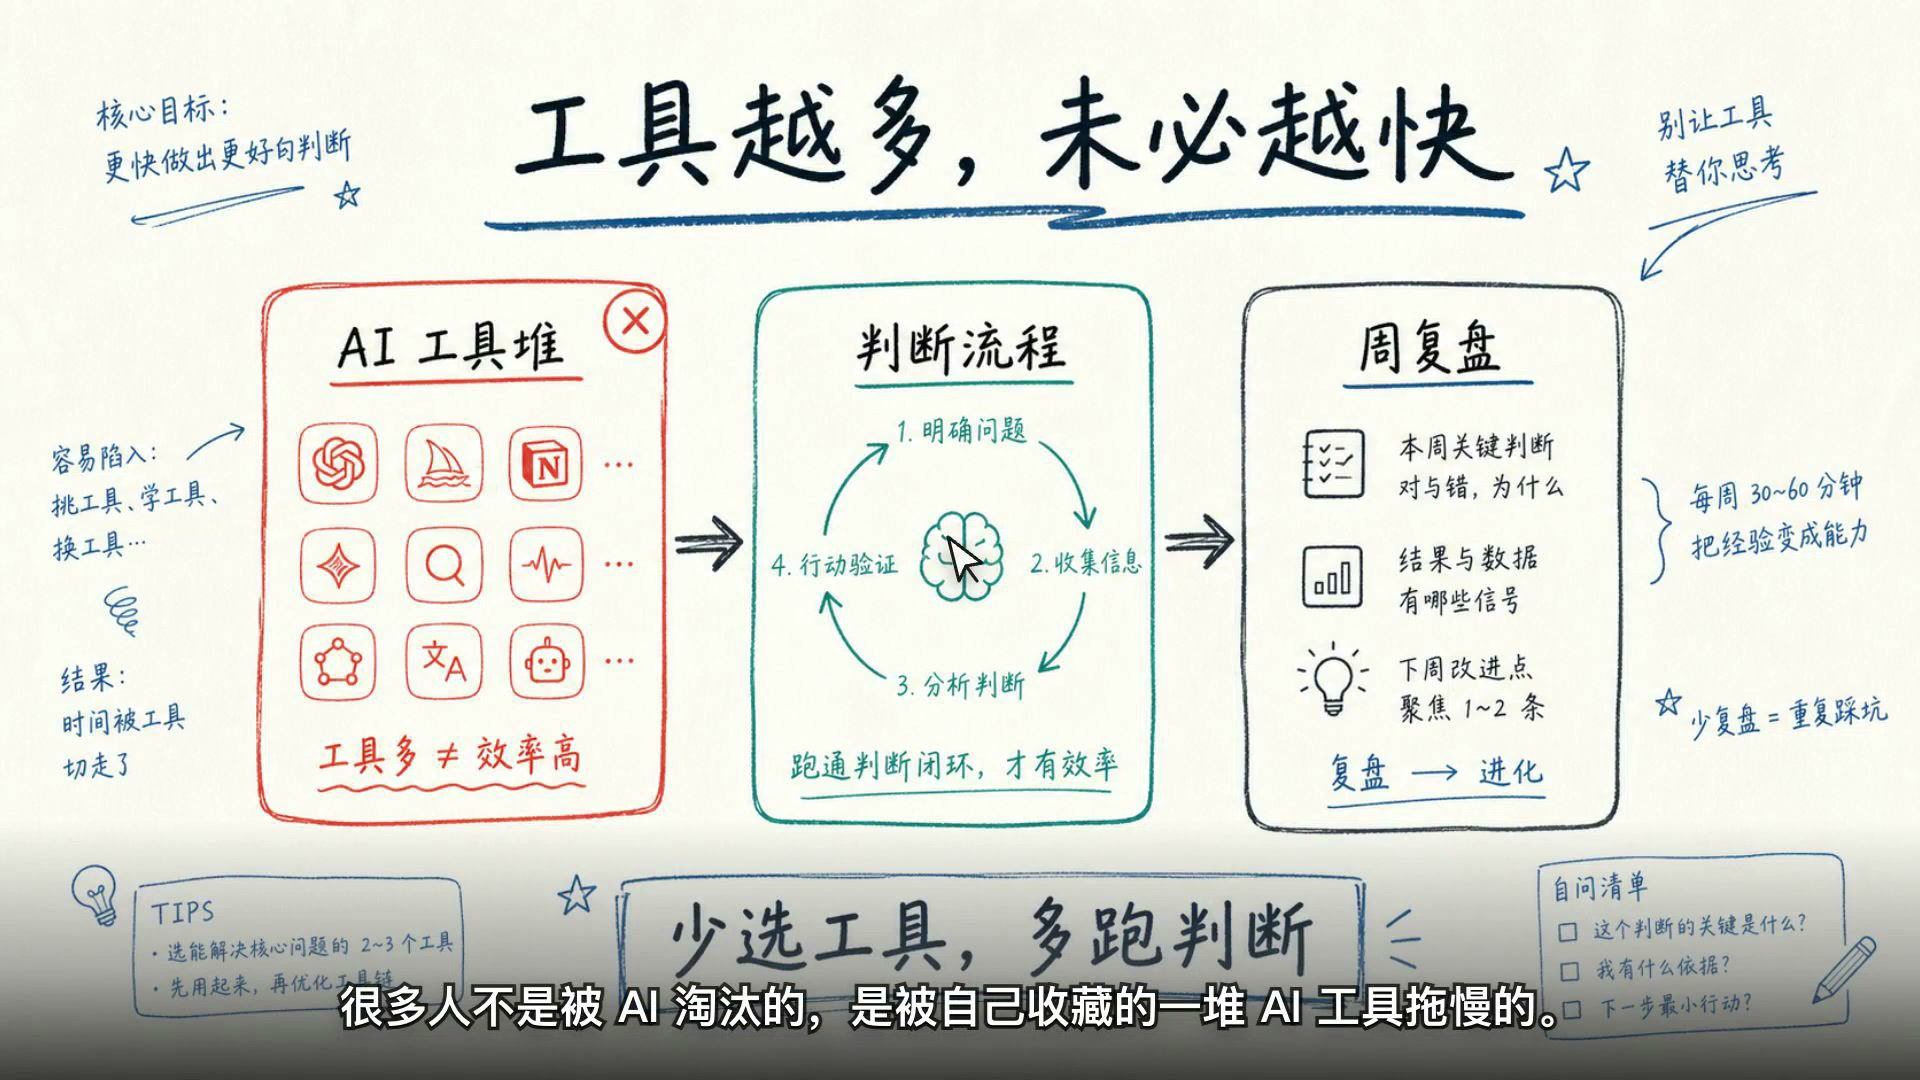
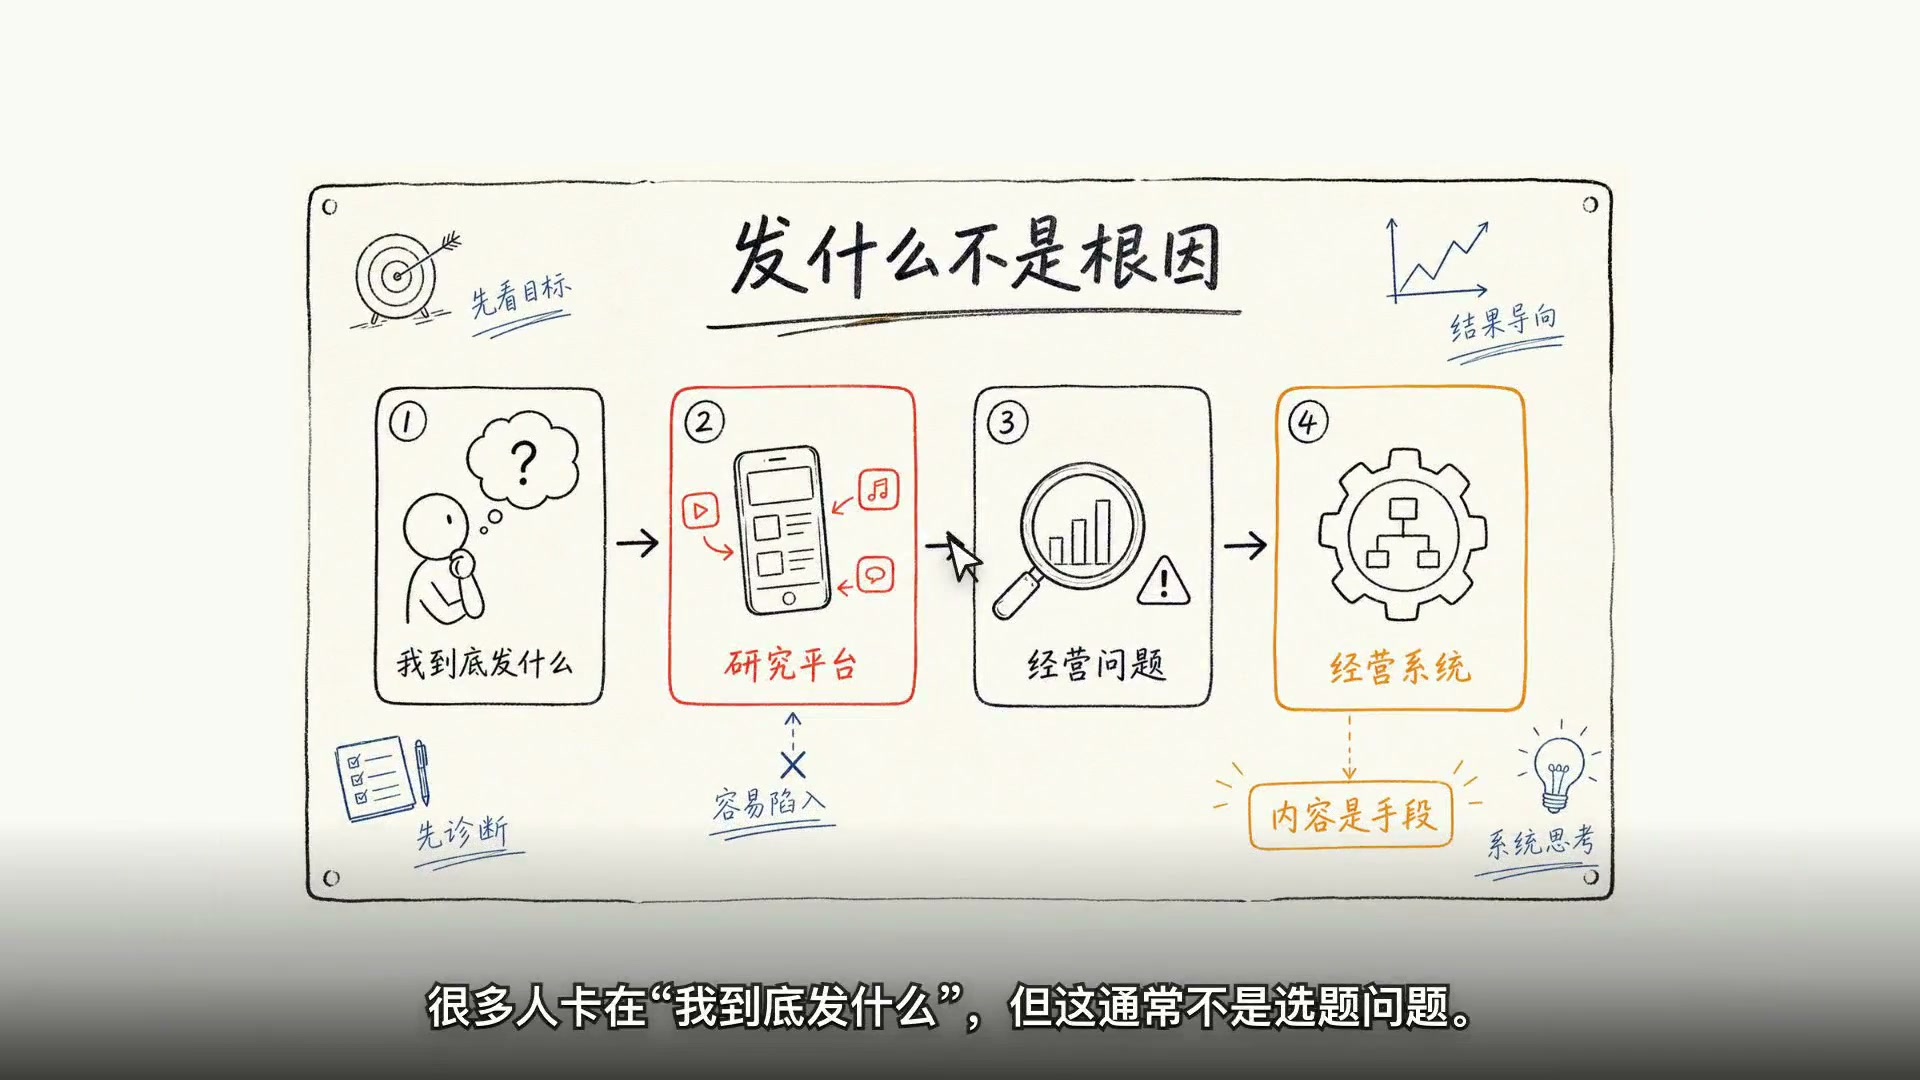
feat: replace demo video with optimization-sync run, 1.25x encoded; use native video player

diff --git a/README.en.md b/README.en.md
@@ -5,11 +5,9 @@
 **Input a topic, get a 30–60 second AI whiteboard explainer video.**
 
 <p align="center">
-  <a href="https://github.com/zkbys/whiteboard/raw/main/assets/demo-1.5x.mp4">
-    <img src="https://github.com/zkbys/whiteboard/raw/main/assets/demo-poster.jpg" width="720" alt="Click to play demo video">
-  </a>
+  <video src="https://raw.githubusercontent.com/zkbys/whiteboard/main/assets/demo.mp4" controls="controls" width="720"></video>
   <br>
-  <sub>🎬 Demo: topic "More AI tools, less efficiency for regular people" (sped up 1.5×, click poster to play)</sub>
+  <sub>🎬 Demo: topic "More AI tools, less efficiency for regular people" (sped up 1.25×)</sub>
 </p>
 
 ## 🚀 Quick Start

diff --git a/README.md b/README.md
@@ -5,11 +5,9 @@
 **输入一个主题，输出 30–60 秒的 AI 白板信息图讲解视频。**
 
 <p align="center">
-  <a href="https://github.com/zkbys/whiteboard/raw/main/assets/demo-1.5x.mp4">
-    <img src="https://github.com/zkbys/whiteboard/raw/main/assets/demo-poster.jpg" width="720" alt="点击播放示例视频">
-  </a>
+  <video src="https://raw.githubusercontent.com/zkbys/whiteboard/main/assets/demo.mp4" controls="controls" width="720"></video>
   <br>
-  <sub>🎬 示例视频：主题「AI 工具越多，普通人反而越低效」（已加速 1.5×，点击封面播放）</sub>
+  <sub>🎬 示例视频：主题「AI 工具越多，普通人反而越低效」（已加速 1.25×）</sub>
 </p>
 
 ## 🚀 快速开始